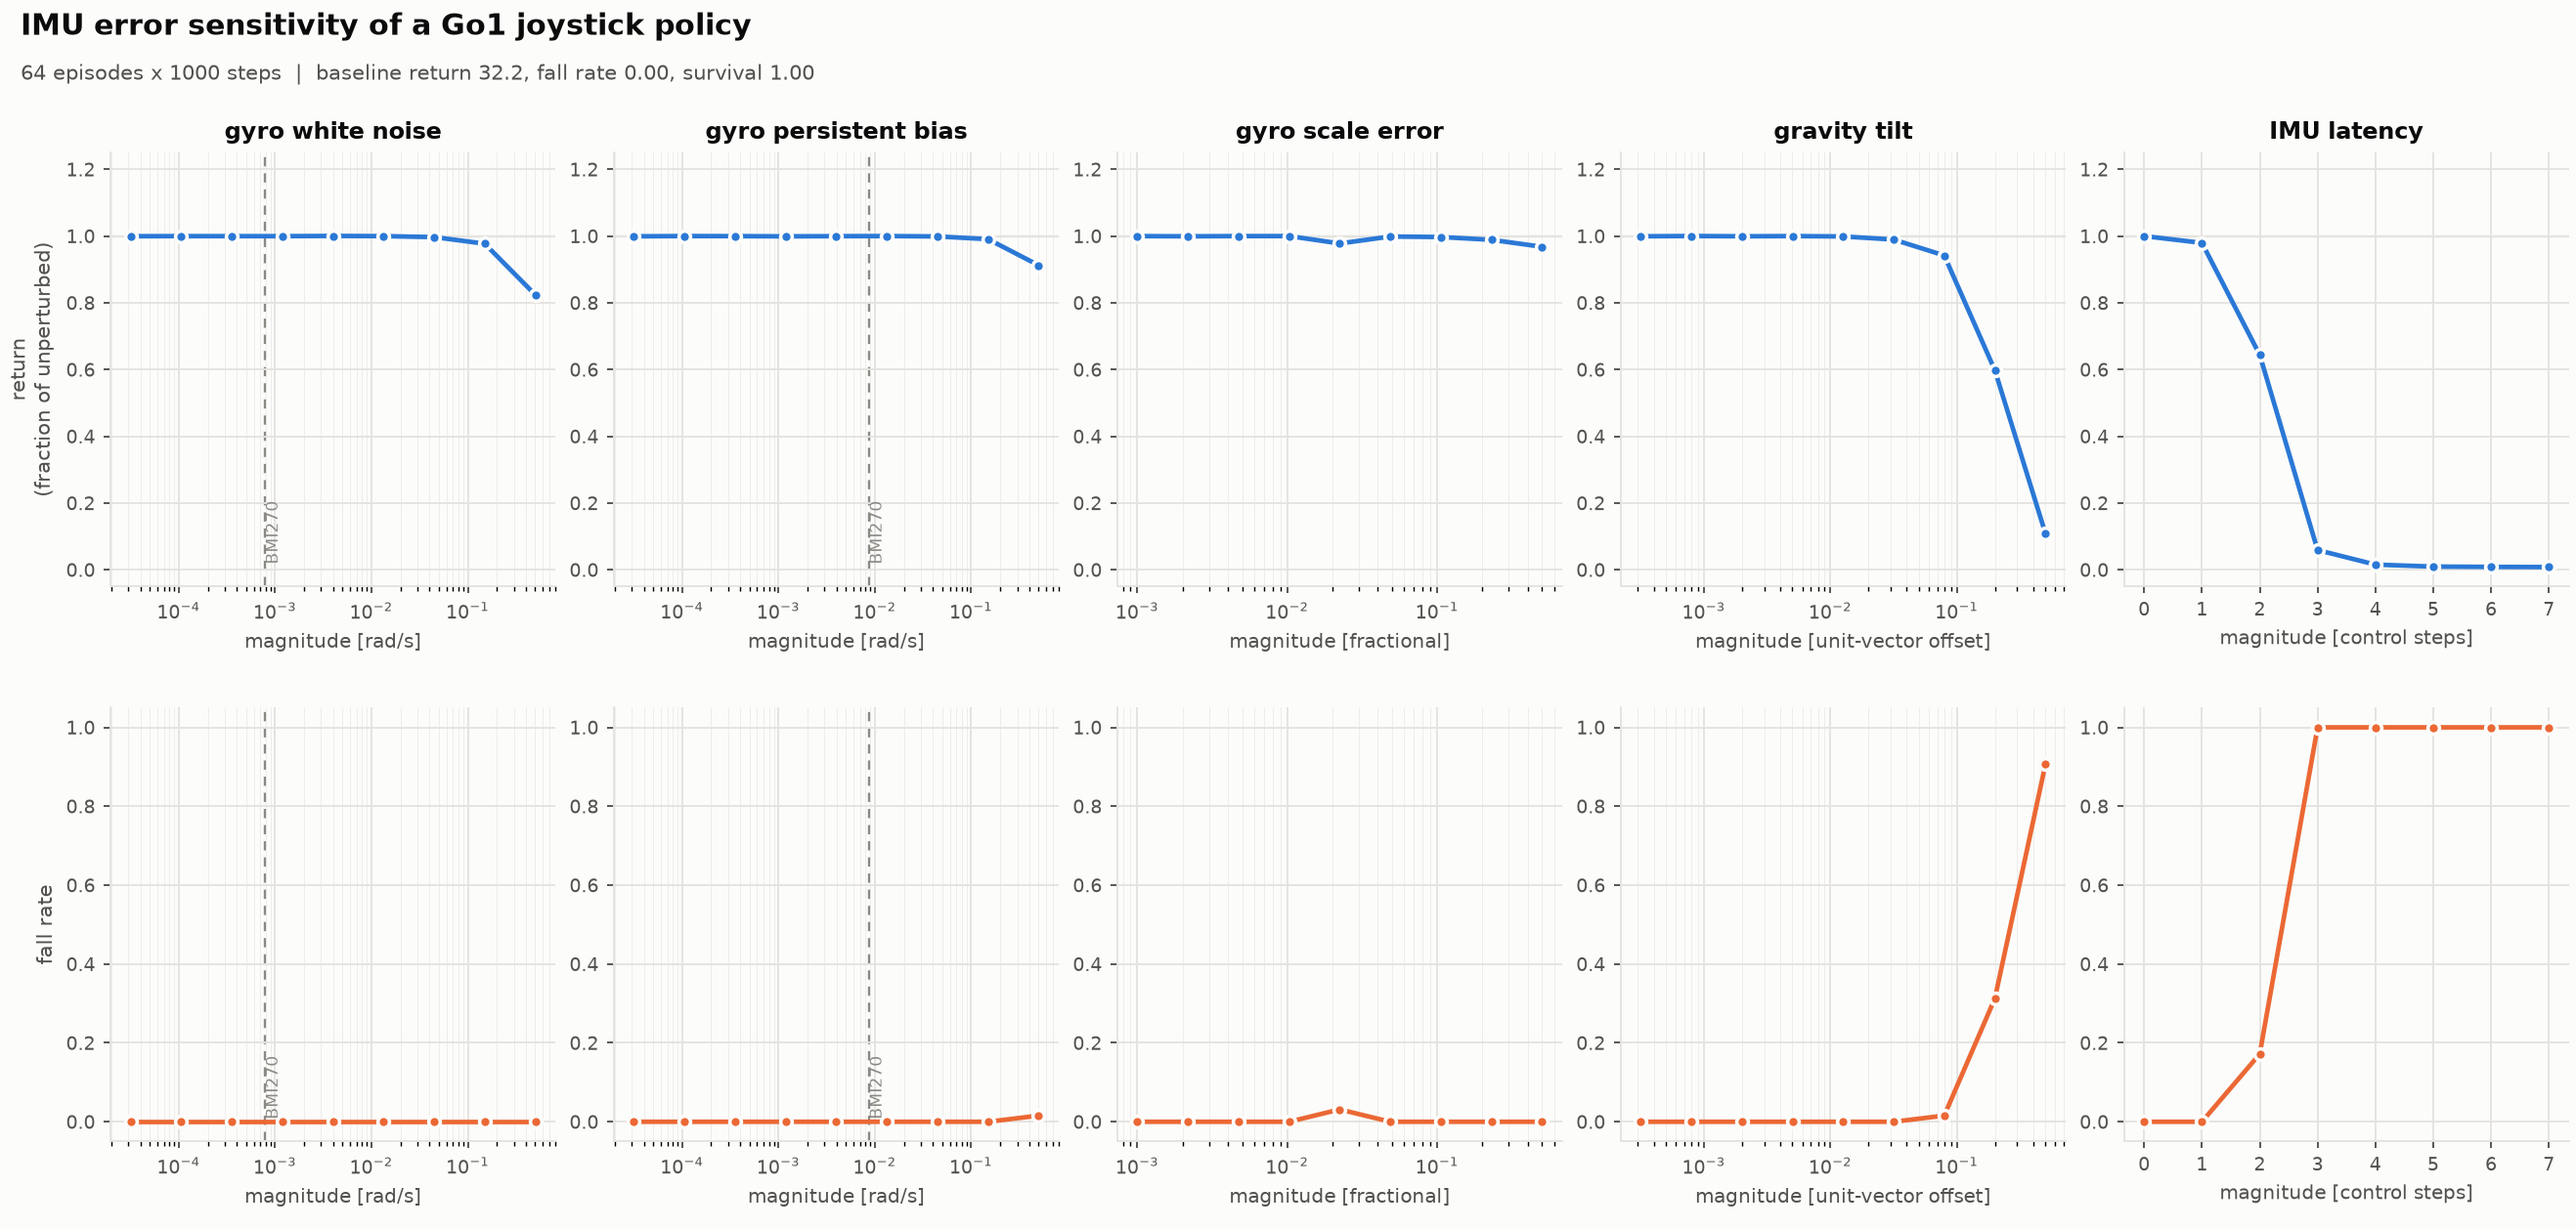
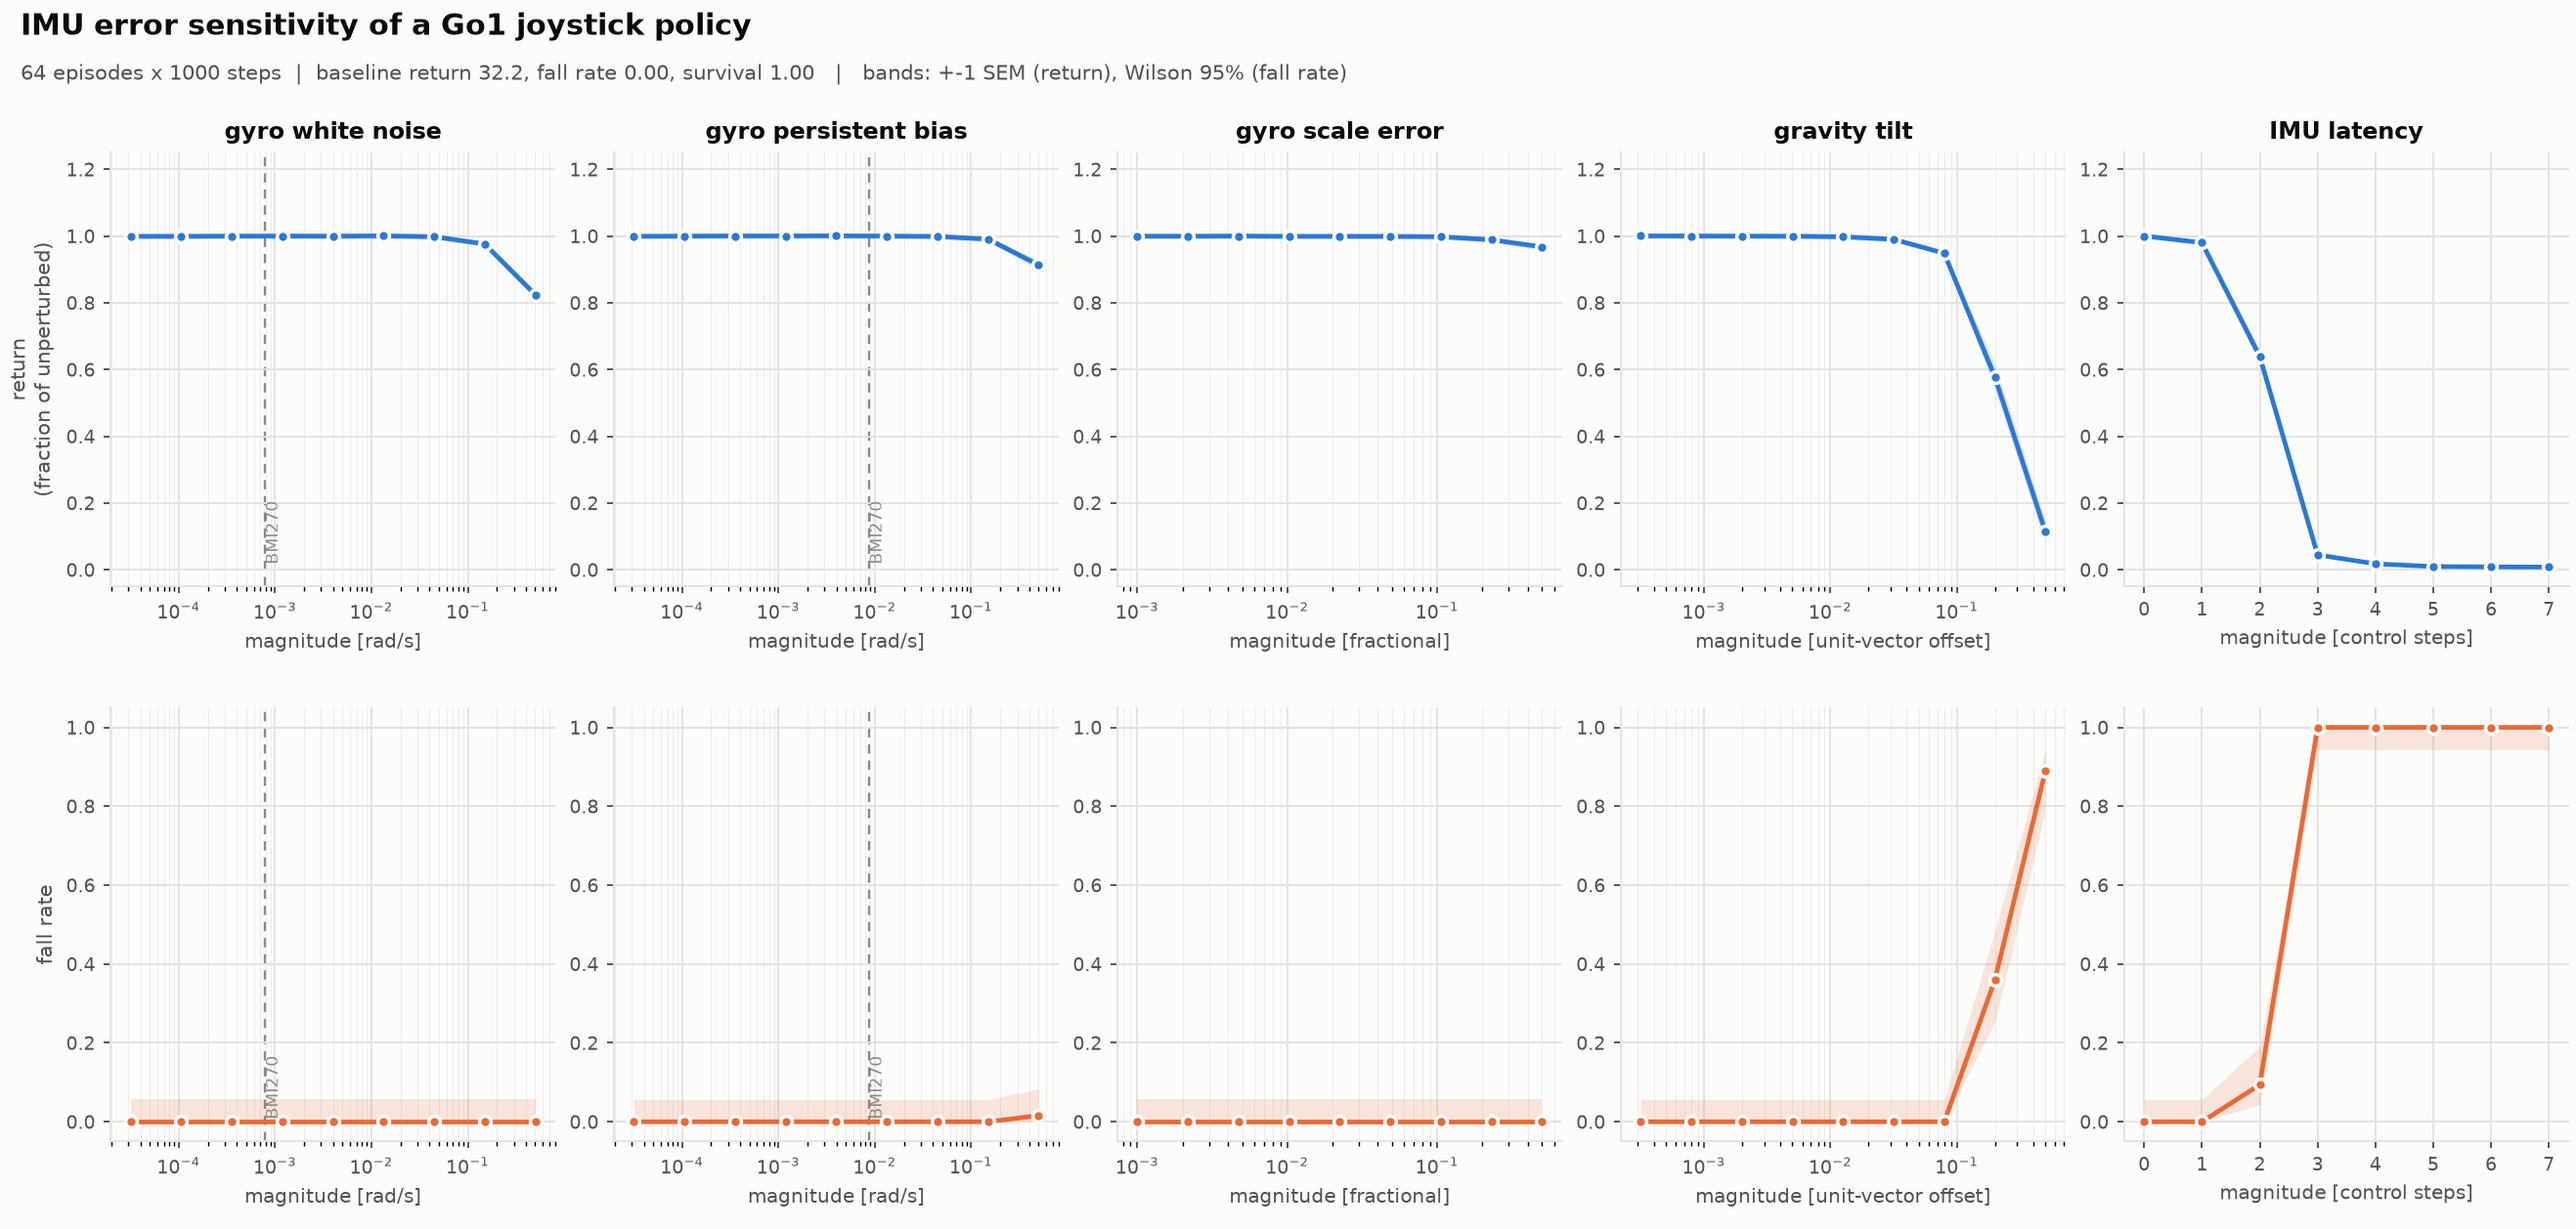
Add uncertainty bands to OFAT figures; record GPU non-reproducibility
A non-monotonic bump in the gyro-scale fall rate turned out to be 2 episodes
of 64 -- Wilson 95% [0.009, 0.107] against [0, 0.057] at zero. It was caught
only because it pointed the wrong way; a noise excursion pointing the
convenient way would have read as a finding, because the figures carried no
uncertainty at all.

Fixes the reporting defect: Wilson 95% intervals on fall rate (not the normal
approximation, which is degenerate at p=0 and would draw 0/64 as certainty
when it is consistent with a true rate up to 5.6%), +-1 SEM on return, and
the sweep now saves per-point standard deviations instead of means alone.

Re-running also exposed that the sweep is not bit-reproducible on GPU: with
identical seeds that point has read 0.00, 0.031, 0.00 across three runs.
Floating-point reduction order is not fixed on the accelerator and contact
dynamics amplify ~1e-7 differences over 1000 steps until marginal episodes
flip. Measured run-to-run variation near zero fall rate is ~2/64 episodes,
independent of sampling error. Recorded as a limitation against brief 9.

diff --git a/scripts/plot_ofat.py b/scripts/plot_ofat.py
@@ -69,6 +69,22 @@ BMI270_TILT = 20e-3                              # rad, from +-20 mg zero-g offs
 DR_WHITE = 0.2 / np.sqrt(3.0)                    # 0.1155 rad/s
 
 
+
+def wilson(p: np.ndarray, n: int, z: float = 1.96):
+    """Wilson score interval for a proportion.
+
+    Used instead of the normal approximation because fall rate sits at or
+    near zero over most of every sweep, where the normal interval is
+    degenerate (zero width at p=0) and would imply certainty we do not have.
+    A fall rate of 0/64 is consistent with a true rate up to ~5.6%.
+    """
+    p = np.asarray(p, dtype=float)
+    d = 1.0 + z * z / n
+    centre = (p + z * z / (2 * n)) / d
+    half = z * np.sqrt(p * (1 - p) / n + z * z / (4 * n * n)) / d
+    return np.clip(centre - half, 0, 1), np.clip(centre + half, 0, 1)
+
+
 def _style(ax):
     ax.set_facecolor(SURFACE)
     ax.grid(True, which="major", color=GRID, lw=0.8, zorder=0)
@@ -98,6 +114,11 @@ def headline(d, out: Path, dr_persistent: float) -> None:
 
     for factor, color in (("gyro_white", BLUE), ("gyro_bias", ORANGE)):
         m, r = d[f"{factor}__magnitudes"], d[f"{factor}__return"] / base
+        if f"{factor}__return_sd" in d:
+            n_ep = int(d["episodes"]) if "episodes" in d else 64
+            sem = d[f"{factor}__return_sd"] / np.sqrt(n_ep) / base
+            ax.fill_between(m, r - sem, r + sem, color=color, alpha=0.16,
+                            lw=0, zorder=2)
         ax.plot(m, r, color=color, lw=2.0, marker="o", ms=5,
                 mec=SURFACE, mew=1.5, zorder=4,
                 label=FACTOR_LABEL[factor])
@@ -137,6 +158,7 @@ def grid_figure(d, out: Path) -> None:
     different scales never share an axis."""
     factors = [f for f in FACTOR_LABEL if f"{f}__magnitudes" in d]
     base = float(d["baseline__return"])
+    n_ep = int(d["episodes"]) if "episodes" in d else 64
     n = len(factors)
     fig, axes = plt.subplots(2, n, figsize=(3.1 * n, 7.4),
                              constrained_layout=True)
@@ -151,7 +173,12 @@ def grid_figure(d, out: Path) -> None:
 
         ax = axes[0, j]
         _style(ax)
-        ax.plot(m, d[f"{factor}__return"] / base, color=BLUE, lw=2.0,
+        r = d[f"{factor}__return"] / base
+        if f"{factor}__return_sd" in d:
+            sem = d[f"{factor}__return_sd"] / np.sqrt(n_ep) / base
+            ax.fill_between(m, r - sem, r + sem, color=BLUE, alpha=0.16,
+                            lw=0, zorder=2)
+        ax.plot(m, r, color=BLUE, lw=2.0,
                 marker="o", ms=5, mec=SURFACE, mew=1.5, zorder=4)
         ax.axhline(1.0, color=GRID, lw=1.0, zorder=1)
         ax.set_ylim(-0.05, 1.25)
@@ -165,7 +192,10 @@ def grid_figure(d, out: Path) -> None:
 
         ax2 = axes[1, j]
         _style(ax2)
-        ax2.plot(m, d[f"{factor}__fell"], color=ORANGE, lw=2.0,
+        fell = d[f"{factor}__fell"]
+        lo, hi = wilson(fell, n_ep)
+        ax2.fill_between(m, lo, hi, color=ORANGE, alpha=0.16, lw=0, zorder=2)
+        ax2.plot(m, fell, color=ORANGE, lw=2.0,
                  marker="o", ms=5, mec=SURFACE, mew=1.5, zorder=4)
         ax2.set_ylim(-0.05, 1.05)
         ax2.set_xlabel(f"magnitude [{FACTOR_UNIT[factor]}]",
@@ -187,7 +217,8 @@ def grid_figure(d, out: Path) -> None:
              f"{int(d['episodes'])} episodes x {int(d['horizon'])} steps  |  "
              f"baseline return {base:.1f}, fall rate "
              f"{float(d['baseline__fell']):.2f}, survival "
-             f"{float(d['baseline__survived']):.2f}",
+             f"{float(d['baseline__survived']):.2f}"
+             f"   |   bands: +-1 SEM (return), Wilson 95% (fall rate)",
              color=INK_2, fontsize=9, va="top")
     fig.savefig(out, dpi=170, facecolor=SURFACE)
     print(f"  {out}")

diff --git a/modal_app.py b/modal_app.py
@@ -136,19 +136,20 @@ def smoke() -> int:
 
 
 @app.function(**COMMON)
-def train(timesteps: int = 60_000_000, noise_level: float = 0.0,
-          name: str = "go1_clean") -> int:
+def train(timesteps: int = 200_000_000, noise_level: float = 0.0,
+          name: str = "go1_clean", env: str = "Go1JoystickFlatTerrain") -> int:
     return _run(
-        f"python scripts/train_go1.py --timesteps {timesteps} "
+        f"python scripts/train_go1.py --env {env} --timesteps {timesteps} "
         f"--noise-level {noise_level} --out /runs/{name}.pkl"
     )
 
 
 @app.function(**COMMON)
 def ofat(policy: str = "/runs/go1_clean.pkl", episodes: int = 64,
-         horizon: int = 500, points: int = 9) -> int:
+         horizon: int = 1000, points: int = 9,
+         env: str = "Go1JoystickFlatTerrain") -> int:
     return _run(
-        f"python scripts/ofat_sensitivity.py --policy {policy} "
+        f"python scripts/ofat_sensitivity.py --env {env} --policy {policy} "
         f"--episodes {episodes} --horizon {horizon} --points {points} "
         f"--out /runs/ofat_{policy.split('/')[-1].replace('.pkl','')}.npz"
     )

diff --git a/scripts/ofat_sensitivity.py b/scripts/ofat_sensitivity.py
@@ -269,7 +269,11 @@ def main() -> int:
               f"{'fall rate':>10} {'survived':>9}")
         for m in mags:
             out = batched(keys, fid, jnp.asarray(m))
+            # Keep the spread, not just the mean. Without it a plot cannot
+            # distinguish a real knee from a two-episode fluctuation, and a
+            # noise excursion pointing the convenient way reads as a finding.
             row = {k: float(jnp.mean(v)) for k, v in out.items()}
+            row.update({f"{k}_sd": float(jnp.std(v)) for k, v in out.items()})
             rows.append(row)
             print(f"  {m:>12.4g} {row['return']:>10.2f} {row['tracking_mse']:>11.4f} "
                   f"{row['fell']:>10.2f} {row['survived']:>9.2f}")
